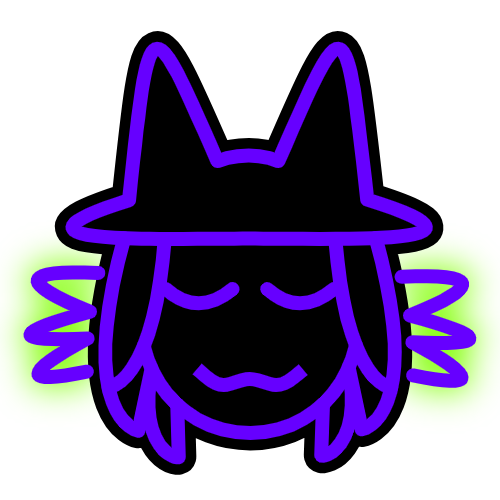
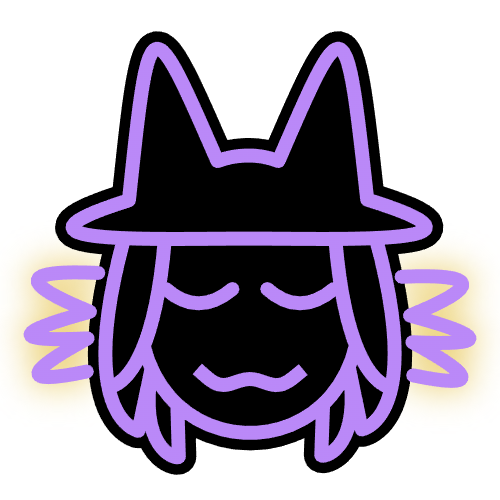
update pfp to 24.07.2026

Changed region(s): [[0.03, 0.06, 0.99, 0.93], [0.39, 0.72, 0.63, 0.81]]

diff --git a/index.html b/index.html
@@ -10,7 +10,7 @@
 	<meta property="og:title" content="meqativ" />
 	<meta itemprop="image" property="og:image" content="https://meqativ.github.io/home/assets/avatar/normal.png" />
 	<meta content="origin" name="referrer">
-	<meta name="theme-color" content="#8800ff" />
+	<meta name="theme-color" content="#c386ff" />
 	<meta name="color-scheme" content="dark light" />
 	<meta name="viewport"
 		content="height=device-height, width=device-width, initial-scale=1.0, maximum-scale=1.0, user-scalable=0" />

diff --git a/style.css b/style.css
@@ -13,8 +13,8 @@ img {
 :root {
 	--scrollbar-width: .8rem;
 	--scrollbar-track-base: transparent;
-	--accent-rgb: 127, 255, 0;
-	/*rgb(102, 0, 255)*/
+	--accent-rgb: 241, 209, 105;
+	/*rgb(195, 134, 255;102, 0, 255)*/
 }
 
 body {
